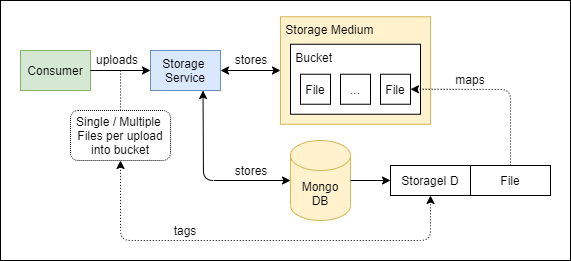
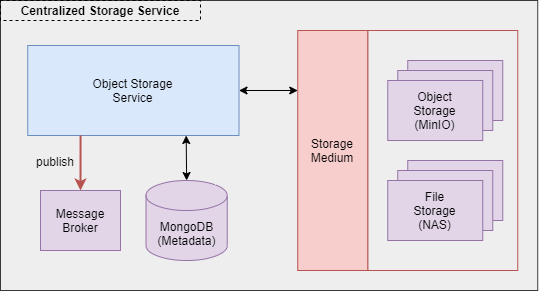
update documentation

diff --git a/webapp/src/components/dashboard/Dashboard.tsx b/webapp/src/components/dashboard/Dashboard.tsx
@@ -11,7 +11,7 @@ import Table from "react-bootstrap/cjs/Table";
 import VerticallyCenteredModal from "../common/modal/VerticallyCenteredModal";
 import FileDropzone from "../common/dropzone/FileDropzone";
 import { useAuthState } from "../../utils/auth-context";
-import {extractFilenameFromContentDisposition, joinURLs} from "../../utils/toolkit";
+import { extractFilenameFromContentDisposition, joinURLs } from "../../utils/toolkit";
 import Data from "../../config/app.json";
 import { UserUploadInfo } from "../../types/api-types";
 import "./Dashboard.css";

diff --git a/storage-service/README.md b/storage-service/README.md
@@ -3,17 +3,21 @@
 Storage Service that provides REST API Endpoints for **uploading, downloading and listing** files stored in either 
 **file storage (Folders)** or **object storage (MinIO)**
 
-- [Usage](#usage)
+- [Getting Started](#getting-started)
     - [Configuring application.yaml](#configuring-applicationyaml)
     - [Running the service (locally)](#running-the-service-locally)
     - [Deploy the service](#deploying-the-service)
 - [Documentation](#documentation)
     - [Storage Service Design](#storage-service-design)
-    - [API Endpoints](#api-endpoints)
+        - [StorageId](#more-about-storageid)
     - [Database Tables](#database-tables)
-    - [Uploading files to services (Mixed Multipart Request)](#uploading-files-to-the-service-mixed-multipart---multipart-request-with-json-data)
-
-## Usage
+    - [API Endpoints](#api-endpoints)
+- [How to consume Centralized Storage Service](#how-to-consume-centralized-storage-service)
+    - [1. How to upload files](#1-uploading-files)
+    - [2. How to add routingkey and custom data](#2-adding-routing-key-and-custom-data)
+    - [3. How to consume event](#3-consuming-the-event)
+    
+## Getting Started
 
 ### Configuring application.yaml
 
@@ -40,28 +44,29 @@ TO BE ADDED...
 
 ### Storage Service Design
 
-#### How uploads are stored and tagged
+![storagesvc_design](../doc/storagesvc_design.png)
 
-![upload_design](../doc/storagesvc_design.png)
+The centralized storage service is an abstraction layer over **storage medium** where the bulk of the exploration is based
+on **Object Storage** with **MinIO**. Below are some of the key features available in the centralized storage service:
+1. **Scheduled Files Cleanup**
+    - Uploaded files can have an **expiry datetime** or **maximum download count** as a mechanism to store files temporary.
+    - A **cronjob** is executed daily to clean up files that have expired.
+    - **Expiry datetime** have **5 options**:
+        - 1 hour
+        - 1 day
+        - 1 week
+        - 1 month
+        - no expiry 
+2. **Event Feedback**
+    - when files are uploaded / downloaded / deleted, an event will be triggered.
+    - consumers can tagged the event with a **routingkey** such that only they will receive the event message.
 
-- Each upload is tag to a **storageId** which is stored in the database
-- Following S3 convention, the consumer should have a bucket available in order to upload files
+#### More about StorageId
 
-#### Expiry and downloads capped
+![upload_pattern](../doc/storagesvc_upload_pattern.png)
 
-As this is a temporary storage service, all uploads are tag with **expiry datetime** and **maximum number of downloads**. A 
-scheduled job will run every day to clean up files that have already expired. 
-
-### API Endpoints
-
-| Request Type | Endpoints | Description |
-| --- | --- | --- |
-| GET | /storagesvc/{bucket} | get contents inside bucket |
-| POST | /storagesvc/upload | upload files using multi-part request |
-| DELETE | /storagesvc/{bucket}/{storageId} | delete files from storage using bucket name and storageId |
-| GET | /storagesvc/storageinfo/{bucket}/{storageId} | get storage information using bucket name and storageId |
-| POST | /storagesvc/storageinfo/bulk | get multiple storage information using bucket name and multiple storageId |
-| GET | /storagesvc/download/{bucket}/{storageId} | download files using bucket name and storageId |
+- Each upload is tag to a **storageId** which is stored as **metadata** in the database
+- Following S3 convention, the consumer should have a **bucket** available in order to upload files
 
 ### Database Tables
 
@@ -70,28 +75,84 @@ scheduled job will run every day to clean up files that have already expired.
 | storage_info | **id**, bucketName, storagePath,  filenames, numOfDownloadsLeft, expiryDatetime, downloadLink | {storageId to files/object uploads} mapping. Given the **id** AKA **storageId**, the storage service will be able to identify the files uploaded and make them available for download. |
 | storage_files | id, bucketName, storagePath, filename, originalFilename, fileContentType, fileLength, storageId | Contains the uploaded files details |
 
-### Uploading files to the service (Mixed Multipart -> Multipart Request with JSON data)
+### API Endpoints
 
-Refer to the API documentation for details on Rest endpoints exposed by the Storage Service. To send multipart request 
-with json data, use the following into your code as examples.
+| Request Type | Endpoints | Description |
+| --- | --- | --- |
+| GET | /storagesvc/{bucket} | get contents inside bucket |
+| POST | /storagesvc/upload | upload files using multi-part request |
+| POST | /storagesvc/uploadV2 | upload files using multi-part request using streaming |
+| DELETE | /storagesvc/{bucket}/{storageId} | delete files from storage using bucket name and storageId |
+| GET | /storagesvc/storageinfo/{bucket}/{storageId} | get storage information using bucket name and storageId |
+| POST | /storagesvc/storageinfo/bulk | get multiple storage information using bucket name and multiple storageId |
+| GET | /storagesvc/download/{bucket}/{storageId} | download files using bucket name and storageId |
+
+### Events
+
+After delete / download / upload of files, an event will be triggered. Refer to the diagram below for more details.
+
+![event flow](../doc/event_flow.png)
+
+## How to consume Centralized Storage Service
+
+Refer to this section on how to consume the centralized storage service. There are 3 main configurations you will need to
+consume the centralized storage service.
+- **How to upload files**
+- **Defining routingkey and data for delete / download / upload**
+- **Consuming the Event**
+
+### 1. Uploading Files
+
+When uploading files, you will be required to attach metadata (json object) to the upload. The metadata required is as
+follows:
+
+```bash
+{
+    bucket: "name_of_bucket",                               
+    storagePath: "some/path",          
+    maxDownloads: 1,
+    expiryPeriod: 0,              
+    eventRoutingKey: "routingkey",
+    eventData: JSON.stringify({ key: "value" })
+}
+```
+
+- **bucket**: your bucket
+- **storagePath**: path to storage your file in the bucket. Can be an empty string which will store in root of bucket.
+- **maxDownloads**: maximum number of downloads before file is deleted.
+- **expiryPeriod**: this is an index value.
+    - **0** = 1 hour
+    - **1** = 1 day
+    - **2** = 1 week
+    - **3** = 1 month
+    - **4** = no expiry
+- **eventRoutingKey**: This is an **OPTIONAL** field. When upload is completed, an event will be published to the message
+broker. This allows you to customize the event such that only queues with this routing key will retrieve the message.
+- **eventData**: This is an **OPTIONAL** field. When upload is completed, an event will be published to the message 
+broker. This allows you to pass data to the consumer.
 
 #### Using Javascript (React + Axios)
 
 ```javascript
 const uploadfunction = (uploadedFiles, userInfo) => {
     const formData = new FormData();
+    const metadata = {
+        bucket: "tempfiledrop",
+        storagePath: "some/path",
+        maxDownloads: 1,
+        expiryPeriod: 0,        // 0 = 1 hour, 1 = 1 day, 2 = 1 week, 3 = 1 month, 4 = No Expiry
+        eventRoutingKey: "tempfiledrop_upload",
+        eventData: JSON.stringify({ username: username })
+    };
+    formData.append("metadata", new Blob([JSON.stringify(metadata)], {
+        type: "application/json"
+    }));    
     uploadedFiles.forEach(file => {
         formData.append("files", file);
     });
-    const metadata = {
-        username: userInfo.username
-    }
-    formData.append("metadata", new Blob([JSON.stringify(metadata)], {
-        type: "application/json"
-    }));
 
     // send request
-    axios.post("/files/upload", formData, {}) {
+    axios.post("/storagesvc/upload", formData, {}) {
         ...
     }       
 };
@@ -118,8 +179,8 @@ fun uploadFile(
     
     // craft body
     val body: MultiValueMap<String, Any> = LinkedMultiValueMap()
-    files.forEach { body.add("files", it.resource) }
     body.add("metadata", metadata)
+    files.forEach { body.add("files", it.resource) }
     
     // craft request
     val requestEntity: HttpEntity<MultiValueMap<String, Any>> = HttpEntity(body, headers)
@@ -130,3 +191,133 @@ fun uploadFile(
     val response = restTemplate.postForEntity(storageServiceUrl, requestEntity, String::class.java)
 }
 ```
+
+### 2. Adding Routing Key and Custom Data
+
+Similar to upload, you can define **eventRoutingKey** and **eventData** when deleting / downloading files. Code samples
+are as follows:
+
+#### Download example
+
+```javascript
+axios.get(`/storagesvc/<BUCKET_NAME>/<STORAGE_ID>`, {
+    responseType: "blob",
+    params: {
+        eventRoutingKey: "routingkey"
+    }
+})
+    .then(res => {
+        const filename = extractFilenameFromContentDisposition(res.headers);
+        const url = window.URL.createObjectURL(new Blob([res.data]));
+        const link = document.createElement('a');
+        link.href = url;
+        link.setAttribute('download', filename);
+        document.body.appendChild(link);
+        link.click();
+    })
+    .catch(err => {
+        console.log(err);
+    });
+```
+
+#### Delete example
+
+```javascript
+ axios.delete(`/storagesvc/<BUCKET_NAME>/<STORAGE_ID>`, {
+    params: {
+        eventData: JSON.stringify({ key: "value" }),
+        eventRoutingKey: "routingkey"
+    }
+})
+    .then(res => console.log(res))
+    .catch(err => console.log(err));
+```
+
+### 3. Consuming the Event
+
+To consume the event, follow the steps below
+
+1. Install Dependencies - Spring Cloud Stream and RabbitMQ Binder
+    ```bash
+    dependencies { 
+        implementation("org.springframework.cloud:spring-cloud-starter-stream-rabbit")
+    }
+    ```
+2. Add configuration in **application.yaml** to bind queues to the **3 exchange (delete / download / upload)**
+    ```yaml
+    spring:
+      rabbitmq:
+        addresses: localhost:5672
+        username: storage_user
+        password: storage123
+      cloud:
+        function:
+          definition: filesDownloadedChannel;filesUploadedChannel;filesDeletedChannel
+        stream:
+          rabbit.bindings:
+            filesDownloadedChannel-in-0.consumer:
+              binding-routing-key: tempfiledrop_download
+            filesUploadedChannel-in-0.consumer:
+              binding-routing-key: tempfiledrop_upload
+            filesDeletedChannel-in-0.consumer:
+              binding-routing-key: tempfiledrop_delete
+          bindings:
+            filesDownloadedChannel-in-0:
+              destination: filesDownloadedExchange 
+              group: tempfiledrop                  
+            filesUploadedChannel-in-0:
+              destination: filesUploadedExchange   
+              group: tempfiledrop                  
+            filesDeletedChannel-in-0:
+              destination: filesDeletedExchange    
+              group: tempfiledrop                 
+    ```
+    - **spring.cloud.rabbitmq** - RabbitMQ Cluster configuration
+    - **spring.cloud.function.definition** - Notice, the names defined here. They will correspond with our consumers which
+    will be defined later...
+    - **spring.cloud.stream.rabbit.bindings** - define your routing keys here
+    - **spring.cloud.stream.bindings: - define the bindings here. These will created queues which are binded to the exchange.
+3. Create Consumer Class
+    ```kotlin
+    @Component
+    class RabbitMQConsumer{
+        companion object {
+            private val logger = LoggerFactory.getLogger(RabbitMQConsumer::class.java)
+        }
+    
+        @Bean
+        fun filesDeletedChannel(): Consumer<EventMessage> = Consumer {
+            logger.info("Received Files Deleted Event From Storage Service: {}", it)
+        }
+    
+        @Bean
+        fun filesDownloadedChannel(): Consumer<EventMessage> = Consumer {
+            logger.info("Received Files Downloaded Event from Storage Service: {}", it)
+        }
+    
+        @Bean
+        fun filesUploadedChannel(): Consumer<EventMessage> = Consumer {
+            logger.info("Received Files Uploaded Event from Storage Service: {}", it)
+   
+            val objectMapper = ObjectMapper().registerKotlinModule()
+            val data = objectMapper.readValue(it.data, CustomData::class.java)
+        }
+    }
+    ```
+    - Refer to **filesUploadedChannel** for example on how to extract your data **eventData** specified when you upload
+    files
+
+
+
+
+
+
+
+
+
+
+
+
+
+
+

diff --git a/webserver/README.md b/webserver/README.md
@@ -35,7 +35,6 @@ cd <ROOT>
 | --- | --- |
 | /api/user-info | used for mocking login |
 | /api/users-upload-info | List & Delete uploads (both records in users_uploads table as well as objects itself) |
-| /api/files | uploading files and getting information on uploaded files for download |
 
 ### Database Tables
 
